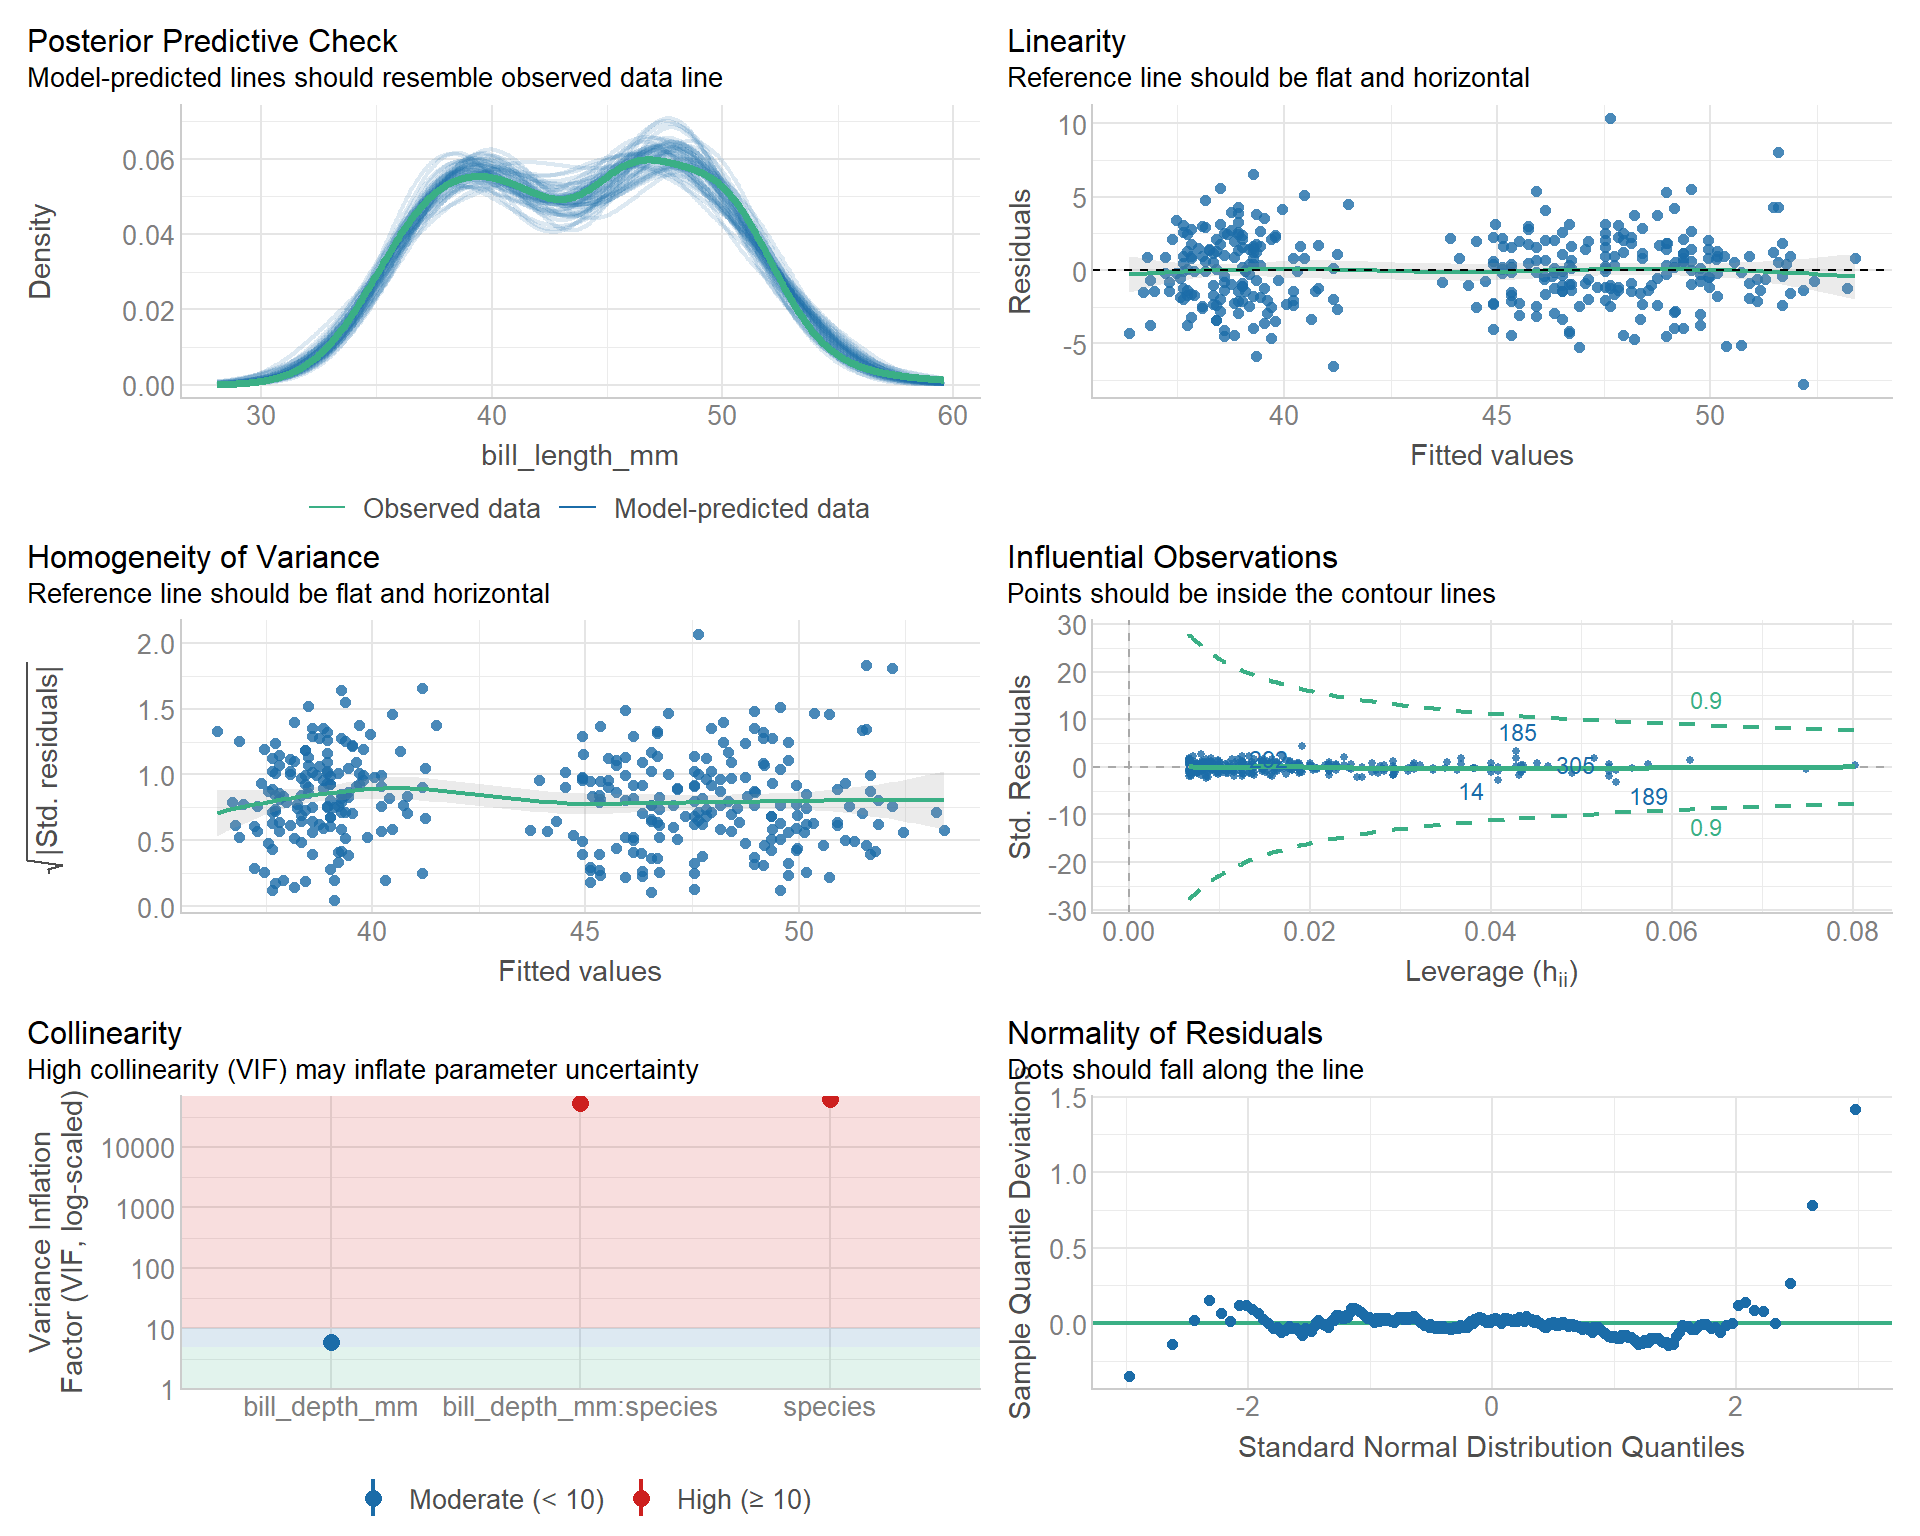
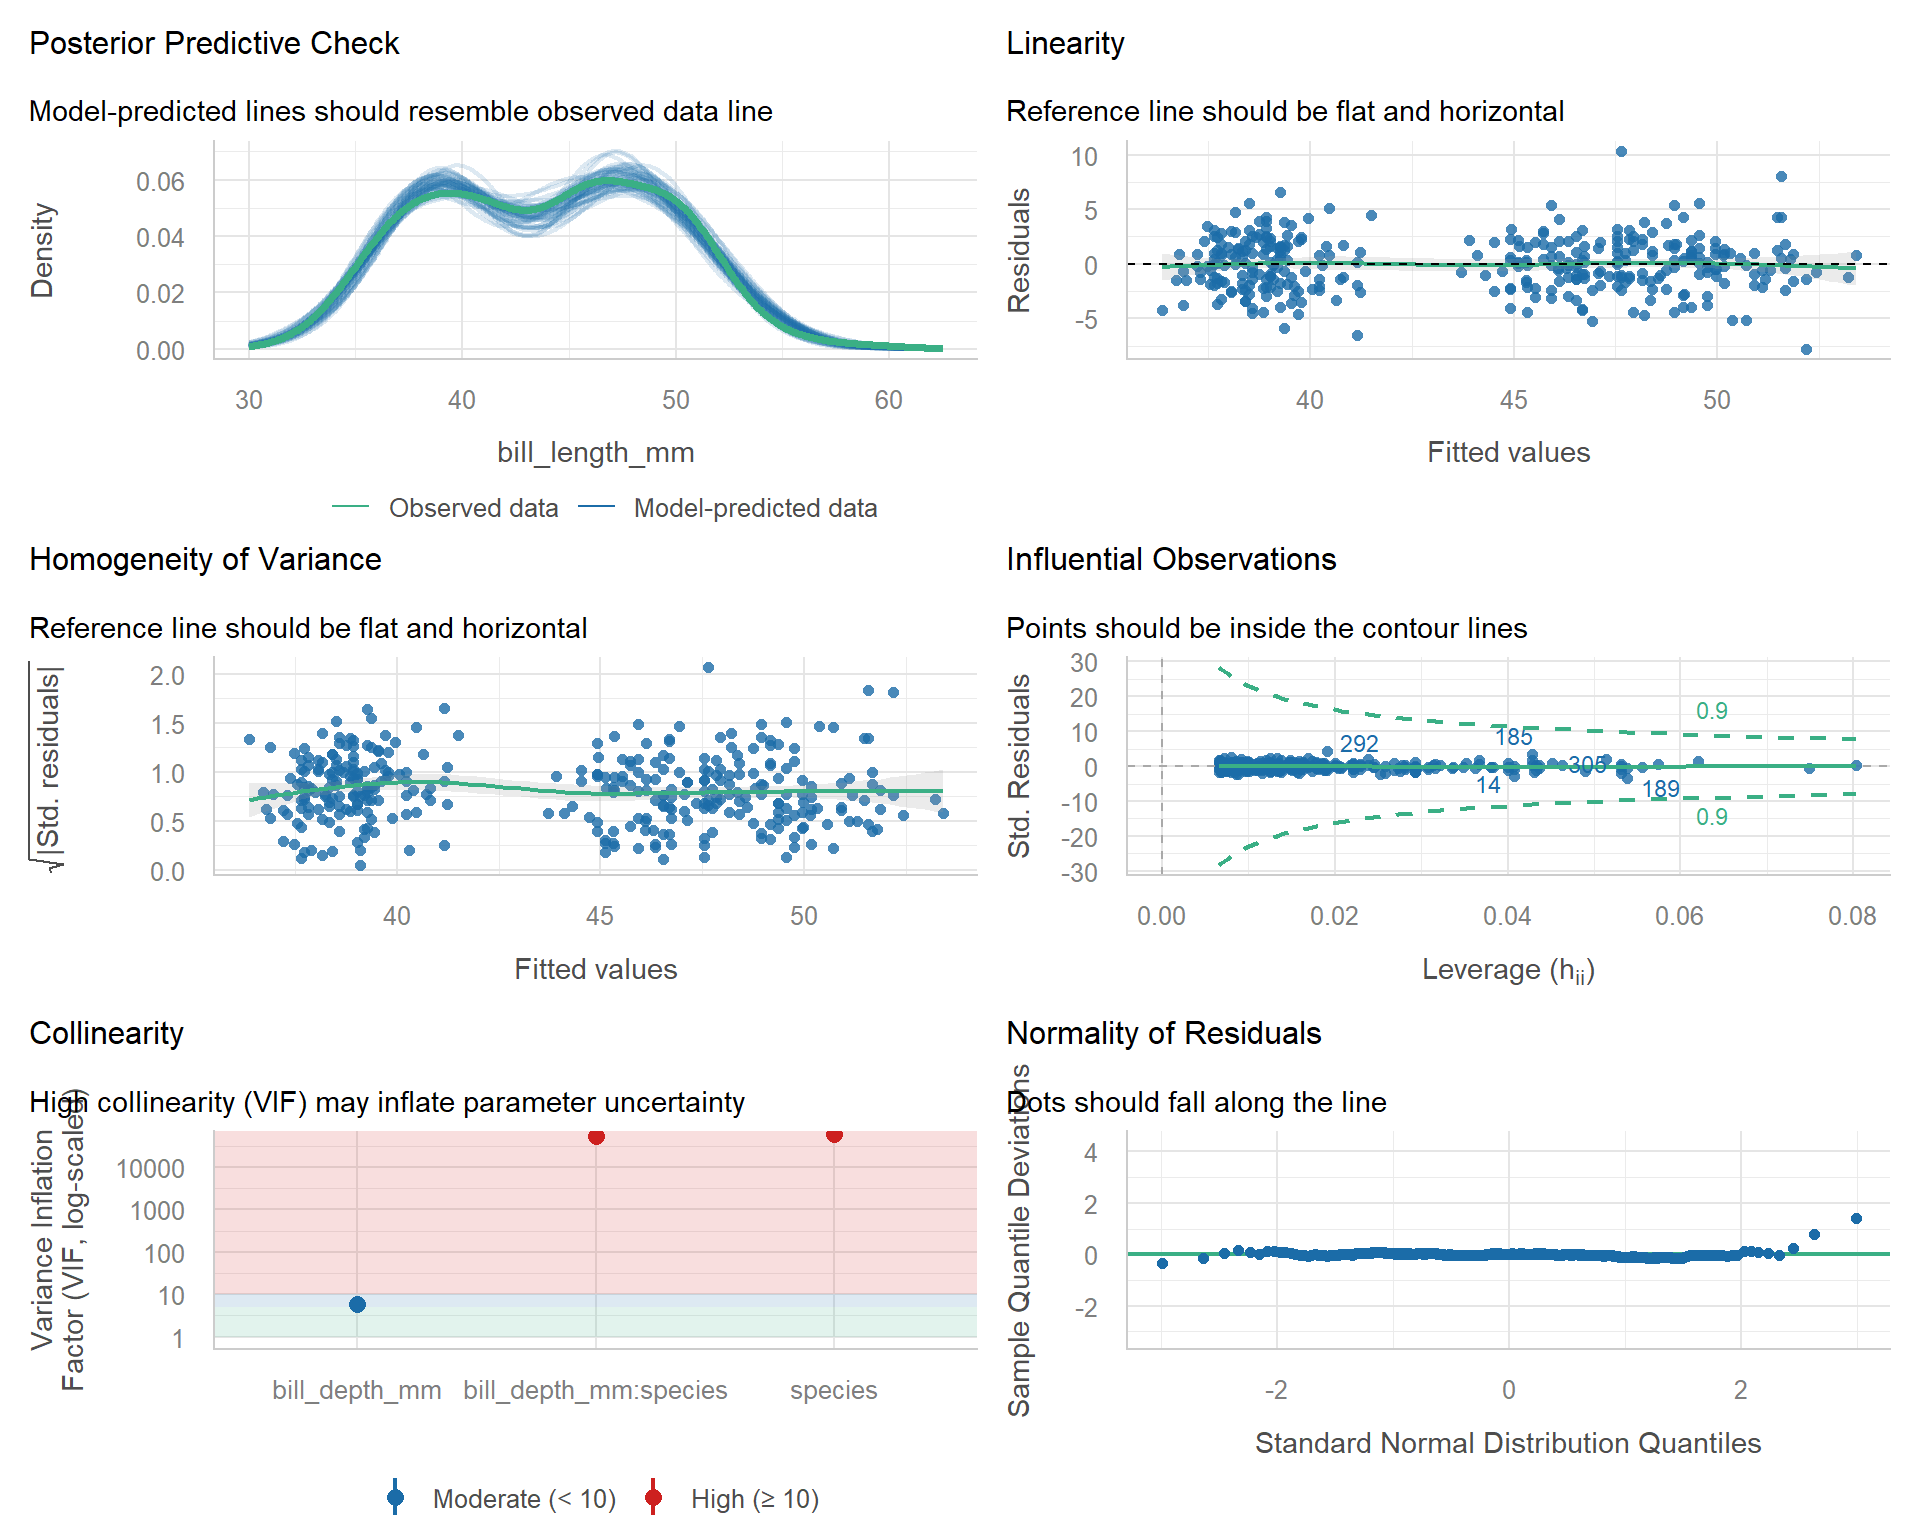
updated intro to models

diff --git a/Week_13/24_IntroToModels.html b/Week_13/24_IntroToModels.html
@@ -10,7 +10,7 @@
   <meta name="generator" content="quarto-1.10.18">
 
   <meta name="author" content="Dr.&nbsp;Nyssa Silbiger">
-  <meta name="dcterms.date" content="2026-10-28">
+  <meta name="dcterms.date" content="2026-11-16">
   <title>Data Fundamentals in R (OCN 682)</title>
   <meta name="apple-mobile-web-app-capable" content="yes">
   <meta name="apple-mobile-web-app-status-bar-style" content="black-translucent">
@@ -214,7 +214,7 @@ Dr.&nbsp;Nyssa Silbiger
     </div>
 </div>
 
-  <p class="date">2026-10-28</p>
+  <p class="date">2026-11-16</p>
 </section>
 <section id="intro-to-models" class="slide level2 inverse">
 <h2>Intro to Models</h2>
@@ -884,7 +884,7 @@ bill_depth_mm:speciesChinstrap     bill_depth_mm:speciesGentoo
 <img data-src="https://media.tenor.com/images/66cfde8994fac9efdd0c4ceb68cff97d/tenor.gif" class="quarto-figure quarto-figure-center r-stretch" style="width:40.0%"></section>
 <section id="class-evals" class="slide level2">
 <h2>Class evals</h2>
-<p>Please take about 10 minutes to fill out the class evals. These are VERY important to me and the department.</p>
+<p>Please take about 10 minutes to fill out the class evals after Nov 30th. These are VERY important to me and the department.</p>
 <p><a href="https://www.hawaii.edu/ces">https://www.hawaii.edu/ces</a></p>
 </section>
 <section id="section" class="slide level2 center middle">

diff --git a/README.md b/README.md
@@ -50,7 +50,8 @@ Note: Lectures posted here before the start of class are still a work in progres
 - [My Test App](https://01a15c4f-b5ae-fe8c-818e-64b11e9ac090.share.connect.posit.cloud)  
 
 *Week 13*  
-- [Iterative Coding](https://01a1c87b-8e2b-26cc-f33b-d262a8e9c6f3.share.connect.posit.cloud)
+- [Iterative Coding](https://01a1c87b-8e2b-26cc-f33b-d262a8e9c6f3.share.connect.posit.cloud)  
+- [Intro to Models](https://01a1e7d2-35be-5b86-840d-125cde77de19.share.connect.posit.cloud)
 
 
 
